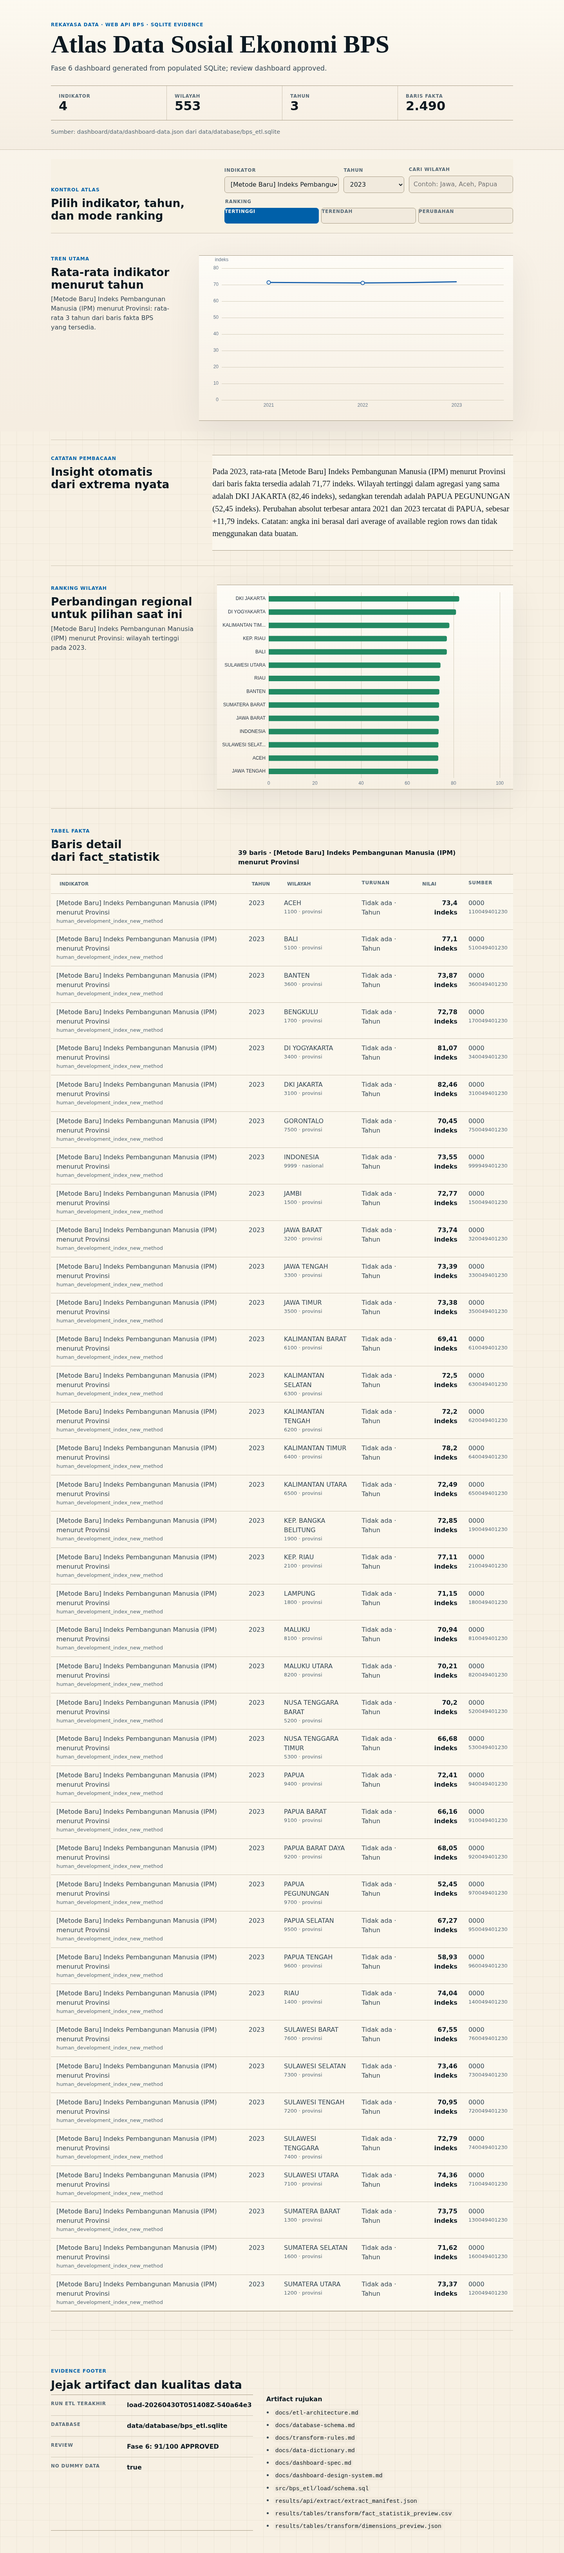
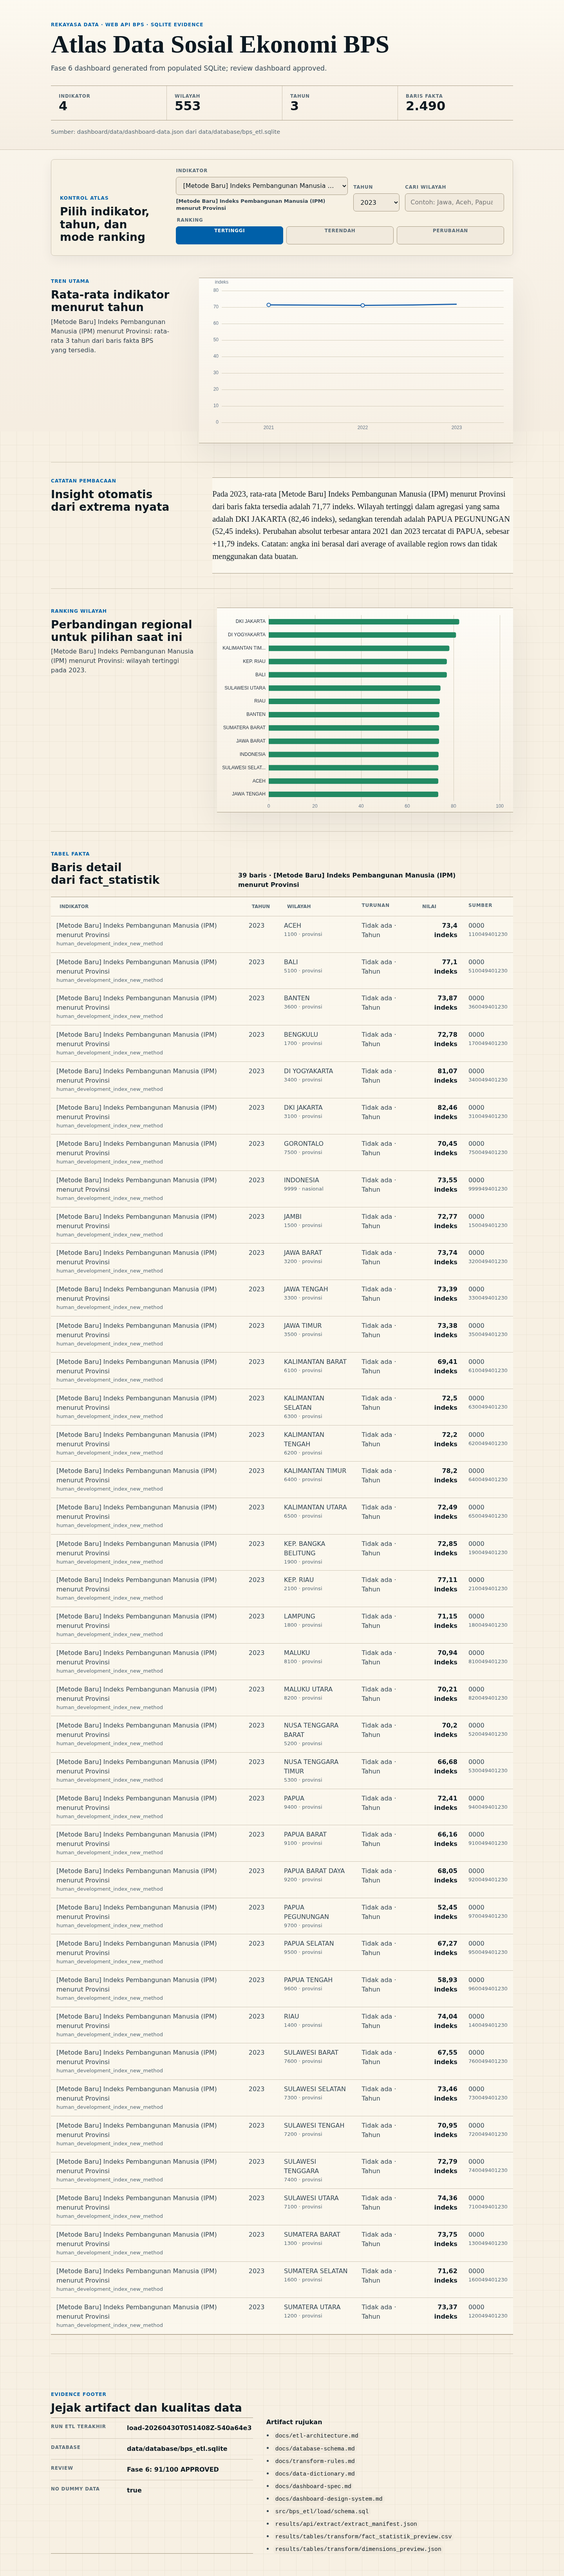
fix: polish dashboard controls

diff --git a/dashboard/styles/components.css b/dashboard/styles/components.css
@@ -39,8 +39,8 @@
 
 .filter-form {
   display: grid;
-  grid-template-columns: minmax(190px, 1.1fr) minmax(120px, 0.58fr) minmax(190px, 1fr);
-  gap: 12px;
+  grid-template-columns: minmax(360px, 1.65fr) minmax(118px, 0.42fr) minmax(220px, 0.95fr);
+  gap: 14px;
   align-items: end;
 }
 
@@ -63,15 +63,29 @@
 .filter-form select,
 .filter-form input {
   width: 100%;
-  min-height: 42px;
+  min-height: 46px;
   border: 1px solid var(--line-strong);
   border-radius: var(--radius-control);
   background: var(--surface-inset);
   color: var(--ink);
-  padding: 9px 11px;
+  padding: 10px 13px;
   transition-duration: 160ms;
   transition-property: border-color, background-color, box-shadow;
   transition-timing-function: var(--ease-out);
+}
+
+.filter-form select {
+  text-overflow: ellipsis;
+}
+
+.selected-indicator {
+  display: block;
+  min-height: 1.25rem;
+  margin-block-start: 7px;
+  color: var(--ink-soft);
+  font-size: 0.82rem;
+  font-weight: 650;
+  line-height: 1.35;
 }
 
 .filter-form select:hover,
@@ -83,14 +97,19 @@
   display: grid;
   grid-template-columns: repeat(3, minmax(0, 1fr));
   grid-column: 1 / -1;
-  gap: 6px;
-  margin: 2px 0 0;
+  gap: 8px;
+  margin: 0;
   border: 0;
   padding: 0;
 }
 
+.segmented legend {
+  grid-column: 1 / -1;
+}
+
 .segmented label {
-  min-height: 40px;
+  display: block;
+  min-height: 46px;
 }
 
 .segmented input {
@@ -103,18 +122,29 @@
 }
 
 .segmented span {
-  display: grid;
-  min-height: 40px;
-  place-items: center;
+  display: flex;
+  min-height: 46px;
+  align-items: center;
+  justify-content: center;
   border: 1px solid var(--line-strong);
   border-radius: var(--radius-control);
   background: var(--surface-inset);
   color: var(--ink-soft);
   font-size: 0.9rem;
   font-weight: 760;
+  line-height: 1;
+  padding: 0 14px;
+  text-align: center;
   transition-duration: 160ms;
   transition-property: background-color, border-color, color, transform;
   transition-timing-function: var(--ease-out);
+}
+
+.segmented span b {
+  display: block;
+  font: inherit;
+  line-height: 1;
+  transform: translateY(5px);
 }
 
 .segmented input:checked + span {
@@ -266,7 +296,7 @@ td[data-kind="number"] {
   box-shadow: var(--shadow-low);
 }
 
-@media (max-width: 940px) {
+@media (max-width: 1100px) {
   .filter-form {
     grid-template-columns: 1fr 1fr;
   }

diff --git a/dashboard/index.html b/dashboard/index.html
@@ -63,7 +63,8 @@
       <form class="filter-form" id="filter-form">
         <label>
           <span>Indikator</span>
-          <select id="indicator-select" name="indicator"></select>
+          <select id="indicator-select" name="indicator" aria-describedby="selected-indicator-label"></select>
+          <small class="selected-indicator" id="selected-indicator-label">Memuat nama indikator...</small>
         </label>
         <label>
           <span>Tahun</span>
@@ -75,9 +76,9 @@
         </label>
         <fieldset class="segmented" aria-label="Mode ranking">
           <legend>Ranking</legend>
-          <label><input type="radio" name="ranking-mode" value="top" checked /> <span>Tertinggi</span></label>
-          <label><input type="radio" name="ranking-mode" value="bottom" /> <span>Terendah</span></label>
-          <label><input type="radio" name="ranking-mode" value="change" /> <span>Perubahan</span></label>
+          <label><input type="radio" name="ranking-mode" value="top" checked /> <span><b>Tertinggi</b></span></label>
+          <label><input type="radio" name="ranking-mode" value="bottom" /> <span><b>Terendah</b></span></label>
+          <label><input type="radio" name="ranking-mode" value="change" /> <span><b>Perubahan</b></span></label>
         </fieldset>
       </form>
     </section>

diff --git a/dashboard/styles/layout.css b/dashboard/styles/layout.css
@@ -24,13 +24,16 @@ main {
   top: 0;
   z-index: 5;
   display: grid;
-  grid-template-columns: 0.72fr 1.28fr;
-  gap: 28px;
+  grid-template-columns: minmax(260px, 0.48fr) minmax(0, 1.52fr);
+  gap: 32px;
   align-items: end;
-  border-bottom: 1px solid var(--line);
+  border: 1px solid var(--line);
+  border-radius: var(--radius-panel);
   background: oklch(0.956 0.018 82 / 0.96);
-  padding-block: 18px;
+  padding: 20px 22px 22px;
   backdrop-filter: blur(8px);
+  box-shadow: var(--shadow-low);
+  overflow: visible;
 }
 
 .atlas-section {
@@ -78,7 +81,7 @@ main {
   gap: 34px;
 }
 
-@media (max-width: 940px) {
+@media (max-width: 1100px) {
   .control-band,
   .atlas-section,
   .atlas-section--trend,

diff --git a/dashboard/scripts/main.js b/dashboard/scripts/main.js
@@ -44,6 +44,7 @@ function renderDynamicSections() {
   const tableRows = sortedRows(filteredTableRows(dashboardData, state), state);
 
   setText('trend-summary', `${trend.indicator_name}: rata-rata ${trend.points.length} tahun dari baris fakta BPS yang tersedia.`);
+  setText('selected-indicator-label', indicator?.name ?? state.indicatorKey);
   if (state.rankingMode === 'change') {
     setText('ranking-summary', `${ranking.indicator_name}: perubahan wilayah ${ranking.from_year}-${ranking.to_year}, difilter menurut pencarian wilayah.`);
   } else {

diff --git a/dashboard/scripts/filters.js b/dashboard/scripts/filters.js
@@ -9,6 +9,7 @@ export function populateFilters(data, state) {
       const option = document.createElement('option');
       option.value = indicator.key;
       option.textContent = indicator.name;
+      option.title = indicator.name;
       option.selected = indicator.key === state.indicatorKey;
       indicatorSelect.append(option);
     });
